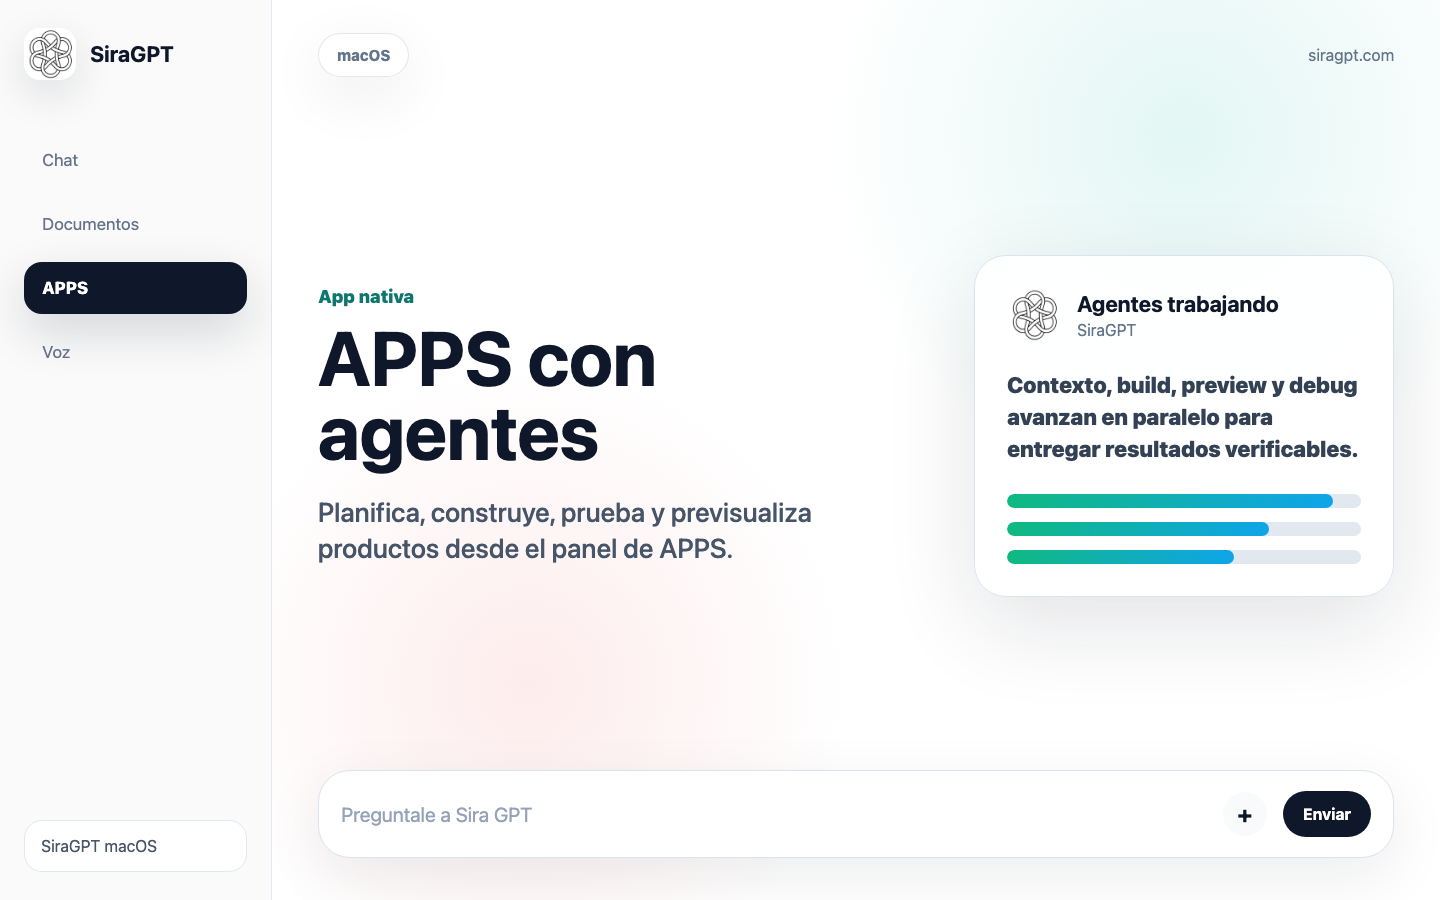
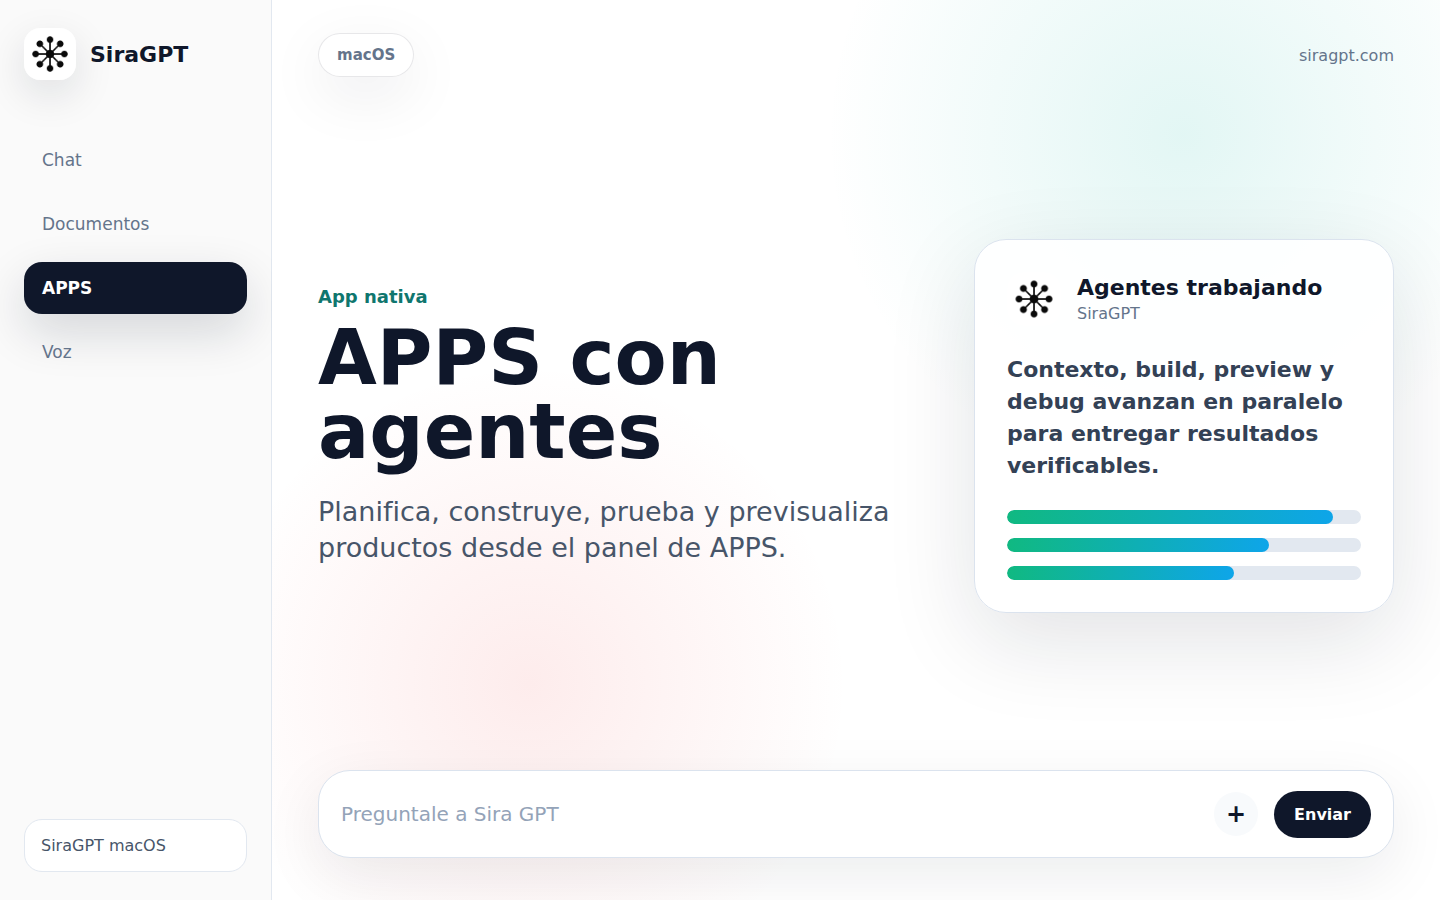
fix(brand): reduced-motion flag in ThinkingCore, stale atom/clover notes, store screenshots with the new mark
Follow-up to #1020 from the adversarial review (all low):
- ThinkingCore keeps a live reduced-motion flag: once the user switches
  reduction on, a tab or viewport change can no longer restart the loop,
  and switching it back off resumes the motion without a remount
  (two new cases in tests/components/thinking-core.test.tsx).
- claude-asterisk.tsx, globals.css and docs/thinking-loaders.md no longer
  describe the atom, the clover or orbiting dots as the brand or glyph.
- The brand asset test now samples pixels with sharp (ink in the middle,
  white or transparent corners) instead of trusting container headers.
- The 14 store-listing screenshots under docs/store-submission/assets are
  regenerated with the eight-arm mark (npm run native:store:assets:generate);
  the readiness report stays ready. CLAUDE.md / CHANGELOG updated; UI lock
  re-baselined for the touched UI files.

Claude-Session: https://claude.ai/code/session_01Cxgo4Xc1JMjLttiH5uegNd

diff --git a/tests/brand-clover-source.test.ts b/tests/brand-clover-source.test.ts
@@ -2,6 +2,7 @@ import assert from "node:assert/strict"
 import { describe, it } from "node:test"
 import fs from "node:fs"
 import path from "node:path"
+import sharp from "sharp"
 
 const root = process.cwd()
 const source = (rel: string) => fs.readFileSync(path.join(root, rel), "utf8")
@@ -99,6 +100,33 @@ describe("Clover brand (four-leaf clover mark + green accent)", () => {
     assert.deepEqual([favicon.readUInt16LE(2), favicon.readUInt16LE(4)], [1, 3], "favicon: 16/32/48")
     // The service worker precache list changed (atom.svg → sira-mark.svg), so its schema version moved on.
     assert.match(source("public/sw.js"), /const SCHEMA_VERSION = 'sira-v4'/)
+  })
+
+  // Headers prove the containers; this proves the mark is actually drawn where
+  // it belongs — ink in the middle, white or transparent at the corners.
+  it("draws the ink mark in the middle of every generated raster, with white or transparent corners", async () => {
+    const px = async (rel: string, x: number, y: number) => {
+      const { data, info } = await sharp(path.join(root, rel)).ensureAlpha().raw().toBuffer({ resolveWithObject: true })
+      const i = (y * info.width + x) * 4
+      return [data[i], data[i + 1], data[i + 2], data[i + 3]]
+    }
+    const INK = [10, 10, 10, 255]
+    const WHITE = [255, 255, 255, 255]
+    assert.deepEqual(await px("public/opengraph-image.png", 600, 253), INK, "social card: the mark's centre is ink")
+    assert.deepEqual(await px("public/opengraph-image.png", 10, 10), WHITE, "social card: white background")
+    assert.deepEqual(await px("public/apple-touch-icon.png", 0, 0), WHITE, "apple icon: opaque white corner (no black corners on iOS)")
+    assert.deepEqual(await px("public/apple-touch-icon.png", 90, 90), INK)
+    assert.equal((await px("public/sira-gpt-512.png", 0, 0))[3], 0, "PWA tile: transparent rounded corner")
+    assert.deepEqual(await px("public/sira-gpt-512.png", 256, 256), INK)
+    assert.deepEqual(await px("public/brand/sira-maskable-512.png", 0, 0), WHITE, "maskable: full-bleed white")
+    assert.equal((await px("android/app/src/main/res/mipmap-xxxhdpi/ic_launcher_foreground.png", 0, 0))[3], 0, "adaptive foreground: transparent outside the mark")
+    assert.deepEqual(await px("android/app/src/main/res/mipmap-xxxhdpi/ic_launcher_foreground.png", 216, 216), INK)
+    assert.deepEqual(await px("ios/App/App/Assets.xcassets/AppIcon.appiconset/AppIcon-512@2x.png", 0, 0), WHITE, "App Store icon: opaque white corner")
+    assert.deepEqual(await px("ios/App/App/Assets.xcassets/AppIcon.appiconset/AppIcon-512@2x.png", 512, 512), INK)
+    assert.deepEqual(await px("docs/store-submission/assets/android/play-icon-512.png", 0, 0), WHITE, "Play icon: opaque full-bleed")
+    assert.equal((await px("apps/desktop/assets/icon.png", 0, 0))[3], 0, "desktop icon: rounded tile with transparent corner")
+    assert.deepEqual(await px("apps/desktop/assets/icon.png", 256, 256), INK)
+    assert.deepEqual(await px("extension/icons/icon-128.png", 64, 64), INK)
   })
 
   it("keeps CloverMark for the document assets and uses the Sira mark for every in-app logo render", () => {

diff --git a/tests/components/thinking-core.test.tsx b/tests/components/thinking-core.test.tsx
@@ -117,6 +117,53 @@ describe("ThinkingCore — frame loop", () => {
     expect(moved.x2).toBeCloseTo(expected.arms[2].x, 1)
   })
 
+  it("honours a reduced-motion flip while mounted: a visibility change never restarts the loop, flipping it back resumes", () => {
+    const listeners: Array<(event: { matches: boolean }) => void> = []
+    vi.stubGlobal("matchMedia", vi.fn(() => ({
+      matches: false,
+      addEventListener: (_type: string, cb: (event: { matches: boolean }) => void) => listeners.push(cb),
+      removeEventListener: vi.fn(),
+    })))
+    const { container } = render(<ThinkingCore size={20} />)
+    const svg = container.querySelector("svg") as SVGSVGElement
+    expect(callbacks).toHaveLength(1)
+    fire(1_000)
+    fire(1_400)
+    expect(readArm(svg, 0).y2).toBeGreaterThan(40)
+    expect(listeners).toHaveLength(1)
+
+    // The user switches reduced motion on: the loop stops and the logo rests.
+    act(() => listeners[0]({ matches: true }))
+    expect(readArm(svg, 0)).toMatchObject({ x2: 200, y2: 40 })
+    callbacks.splice(0)
+    // Tab hidden → visible again must NOT restart the animation.
+    hidden = true
+    act(() => {
+      document.dispatchEvent(new Event("visibilitychange"))
+    })
+    hidden = false
+    act(() => {
+      document.dispatchEvent(new Event("visibilitychange"))
+    })
+    expect(callbacks).toHaveLength(0)
+    expect(readArm(svg, 0)).toMatchObject({ x2: 200, y2: 40 })
+
+    // Switching it back off resumes the motion without a remount.
+    act(() => listeners[0]({ matches: false }))
+    expect(callbacks).toHaveLength(1)
+    fire(9_000)
+    fire(9_400)
+    expect(readArm(svg, 0).y2).toBeGreaterThan(40)
+  })
+
+  it("renders the resting logo and never animates when reduced motion is already on", () => {
+    vi.stubGlobal("matchMedia", vi.fn(() => ({ matches: true, addEventListener: vi.fn(), removeEventListener: vi.fn() })))
+    const { container } = render(<ThinkingCore size={20} />)
+    const svg = container.querySelector("svg") as SVGSVGElement
+    expect(callbacks).toHaveLength(0)
+    expect(readArm(svg, 0)).toMatchObject({ x2: 200, y2: 40, display: "inline" })
+  })
+
   it("idle and unmount paint the resting logo", () => {
     const { container, rerender, unmount } = render(<ThinkingCore size={20} />)
     const svg = container.querySelector("svg") as SVGSVGElement

diff --git a/components/brand/thinking-core.tsx b/components/brand/thinking-core.tsx
@@ -85,10 +85,10 @@ export function ThinkingCore({ size = 20, active = true, tone = "default", color
       return undefined
     }
     const reduced = typeof window.matchMedia === "function" ? window.matchMedia("(prefers-reduced-motion: reduce)") : null
-    if (reduced?.matches) {
-      paint(svg, resting)
-      return undefined
-    }
+    // Follows the media query while mounted, so a visibility or viewport
+    // change never restarts the loop after the user switched reduction on
+    // (and switching it off resumes the motion without a remount).
+    let motionAllowed = !reduced?.matches
     let raf = 0
     let anchor: number | null = null
     // Cycle time of the last painted frame. It starts at the close time,
@@ -108,7 +108,7 @@ export function ThinkingCore({ size = 20, active = true, tone = "default", color
       raf = requestAnimationFrame(tick)
     }
     const start = () => {
-      if (disposed || raf || document.hidden || !inView) return
+      if (disposed || raf || !motionAllowed || document.hidden || !inView) return
       raf = requestAnimationFrame(tick)
     }
     const stop = () => {
@@ -119,7 +119,11 @@ export function ThinkingCore({ size = 20, active = true, tone = "default", color
     }
     const onVisibility = () => (document.hidden ? stop() : start())
     const onReduced = (event: MediaQueryListEvent) => {
-      if (!event.matches) return
+      motionAllowed = !event.matches
+      if (motionAllowed) {
+        start()
+        return
+      }
       stop()
       paint(svg, resting)
     }
@@ -133,7 +137,8 @@ export function ThinkingCore({ size = 20, active = true, tone = "default", color
       })
       : null
     observer?.observe(svg)
-    start()
+    if (motionAllowed) start()
+    else paint(svg, resting)
     return () => {
       disposed = true
       stop()

diff --git a/components/claude-asterisk.tsx b/components/claude-asterisk.tsx
@@ -6,9 +6,9 @@ import type { ThinkingCoreTone } from "@/components/brand/thinking-core"
 
 export type ClaudeAsteriskProps = {
   size?: number
-  /** Animated (thinking) or static (done / reduced motion handled in CSS). */
+  /** Animated (thinking) or static (done). Reduced motion renders the static mark. */
   active?: boolean
-  /** `error` paints the atom in the destructive red (the only colour on a thinking surface). */
+  /** `error` paints the mark in the destructive red (the only colour on a thinking surface). */
   tone?: ThinkingCoreTone
   color?: string
   className?: string
@@ -17,9 +17,10 @@ export type ClaudeAsteriskProps = {
 
 /**
  * The SiraGPT "thinking" glyph. Historically the eight-arm asterisk, then
- * the four-leaf clover (PR #887); since the ThinkingCore change it is the
- * neural core (`components/brand/thinking-core.tsx`) — the clover stays the
- * brand logo everywhere else (sidebar, auth, PWA).
+ * the four-leaf clover (PR #887), the atom (2026-10-02); since 2026-10-09 it
+ * is the official eight-arm Sira mark in motion
+ * (`components/brand/thinking-core.tsx`), the same mark `SiraMark` draws
+ * everywhere else (sidebar, auth, PWA).
  *
  * This is a thin wrapper that keeps the historical name, the
  * `data-claude-asterisk` attributes and the `.claude-asterisk` CSS classes,

diff --git a/tests/thinking-core-source.test.ts b/tests/thinking-core-source.test.ts
@@ -43,7 +43,12 @@ describe("ThinkingCore — the «Pensando» glyph", () => {
     assert.match(core, /raf = 0\n\s+\/\/ Re-anchor on the next frame so the clock does not count the pause\.\n\s+anchor = null/)
     assert.match(core, /raf = requestAnimationFrame\(tick\)/)
     assert.match(core, /window\.matchMedia\("\(prefers-reduced-motion: reduce\)"\)/)
-    assert.match(core, /if \(reduced\?\.matches\) \{\n\s+paint\(svg, resting\)/)
+    // Reduced motion is a live flag: the loop never (re)starts while it is on, and
+    // flipping it off resumes without a remount.
+    assert.match(core, /let motionAllowed = !reduced\?\.matches/)
+    assert.match(core, /if \(disposed \|\| raf \|\| !motionAllowed \|\| document\.hidden \|\| !inView\) return/)
+    assert.match(core, /motionAllowed = !event\.matches/)
+    assert.match(core, /if \(motionAllowed\) start\(\)\n\s+else paint\(svg, resting\)/)
     assert.match(core, /document\.addEventListener\("visibilitychange", onVisibility\)/)
     assert.match(core, /new IntersectionObserver\(/)
     // Closed arms are hidden with `display`, never `visibility`: a visible

diff --git a/app/globals.css b/app/globals.css
@@ -8733,7 +8733,7 @@ html[dir="rtl"] .right-3 { left: 0.75rem; right: auto; }
    `.thinking-core__tip`, `.thinking-core__core`), never attributes. */
 .claude-asterisk { transform-origin: 50% 50%; overflow: visible; }
 
-/* Live «Pensando…» label beats softly while the dots orbit. */
+/* Live «Pensando…» label beats softly while the arms open and close. */
 @keyframes thinking-live-label-pulse {
   0%, 100% { opacity: 0.75; }
   50% { opacity: 1; }
@@ -9609,7 +9609,7 @@ body:has(.admin-sidebar-drawer[data-state="open"]) [data-radix-dialog-overlay] {
   --success-green: 142 66% 48%;
 }
 
-/* Sidebar brand lockup: atom mark + «SiraGPT» wordmark (2026-10-01; atom since 2026-10-02). */
+/* Sidebar brand lockup: Sira mark + «SiraGPT» wordmark (2026-10-01; eight-arm mark since 2026-10-09). */
 .sidebar-brand__wordmark {
   font-weight: 600;
   letter-spacing: -0.02em;

diff --git a/tests/app-sidebar-chat-groups-source.test.ts b/tests/app-sidebar-chat-groups-source.test.ts
@@ -118,7 +118,7 @@ describe("app sidebar recent-chats toolbar source contract", () => {
   it("keeps Spanish collapse tooltips and the Claude-style header strip", () => {
     assert.match(source, /Contraer barra lateral ⌘B/)
     assert.match(source, /Expandir barra lateral ⌘B/)
-    // The header opens with the brand lockup (atom mark + «SiraGPT») and keeps the
+    // The header opens with the brand lockup (Sira mark + «SiraGPT») and keeps the
     // new-chat disc after the Empresas mode row is removed; the browser
     // history buttons left the strip on 2026-10-01 to make room for the wordmark.
     assert.doesNotMatch(source, /Modo de la barra lateral/)

diff --git a/tests/agents-sidebar-label-source.test.ts b/tests/agents-sidebar-label-source.test.ts
@@ -10,7 +10,7 @@ describe("agentes sidebar chrome", () => {
     const sidebar = source("components/app-sidebar.tsx")
     assert.doesNotMatch(sidebar, /Modo de la barra lateral/)
     assert.doesNotMatch(sidebar, /role="tablist"/)
-    // The header opens with the brand lockup (atom mark + «SiraGPT»); the browser
+    // The header opens with the brand lockup (Sira mark + «SiraGPT»); the browser
     // history buttons left the strip on 2026-10-01 to make room for the wordmark.
     assert.match(sidebar, /data-testid="sidebar-brand"/)
     assert.doesNotMatch(sidebar, /aria-label="Atrás"/)

diff --git a/CLAUDE.md b/CLAUDE.md
@@ -2579,9 +2579,13 @@ de tres órbitas (2026-10-02). UI lock re-baselineado para los archivos tocados.
   (`thinking-core__tip`) y el centro (`thinking-core__core`); un `requestAnimationFrame` mueve los
   atributos con `frameAt` (sin SMIL ni canvas: nítido a 12–48 px y `currentColor`). El render del
   servidor, `active={false}` y `prefers-reduced-motion` dibujan el frame abierto (el logo); se
-  pausa con la pestaña oculta o fuera de vista (`IntersectionObserver`). `tone="error"` pinta el
-  mark entero en `--destructive`. El bloque CSS `.claude-asterisk` de `globals.css` ya no tiene
-  reglas de electrones.
+  pausa con la pestaña oculta o fuera de vista (`IntersectionObserver`) y conserva la fase al
+  reanudar; el reloj arranca en el frame abierto (sin salto al estado cerrado); los brazos cerrados
+  se ocultan con `display` (nunca `visibility`, que atravesaría un ancestro oculto); el flag de
+  `prefers-reduced-motion` se sigue en vivo (un cambio de pestaña nunca reanuda el loop con la
+  reducción activa). `tone="error"` pinta el mark entero en `--destructive`. El bloque CSS
+  `.claude-asterisk` de `globals.css` ya no tiene reglas de electrones. Tests de comportamiento:
+  `tests/components/thinking-core.test.tsx` (frames controlados).
 - **Assets — `npm run brand:assets`** (`scripts/generate-brand-assets.cjs`, en el repo; transpila
   `sira-motion.ts` en memoria y renderiza con sharp; `--only=web|social|android|ios|desktop|extension`):
   `public/brand/sira-mark.svg` (precacheado por `sw.js`, `SCHEMA_VERSION` → `sira-v4`),
@@ -2600,8 +2604,11 @@ de tres órbitas (2026-10-02). UI lock re-baselineado para los archivos tocados.
   `docs/store-submission/assets/android/play-icon-512.png` (opaco a sangre, Play aplica su máscara;
   `native-store-assets.json` apunta ahí) y `extension/icons/icon-{16,48,128}.png`. Las tarjetas
   sociales rotulan «SiraGPT» en Liberation Sans vía fontconfig: el PNG commiteado es el artefacto
-  (CI nunca lo renderiza); regenerar con `fonts-liberation` instalada. Pendiente que requiere
-  Playwright: capturas de `docs/store-submission/assets` (`npm run native:store:assets:generate`).
+  (CI nunca lo renderiza); regenerar con `fonts-liberation` instalada. Las capturas de ficha de
+  tienda `docs/store-submission/assets/**` (14 PNG) se regeneraron con
+  `npm run native:store:assets:generate` (Playwright + Chromium; en un sandbox sin el build fijado,
+  un preload que fuerce `executablePath` al Chromium del sistema basta). Queda solo la copia
+  heredada `siraGPT/`, que no se compila ni se sirve.
 - Tests: `tests/lib/sira-motion.test.ts` (8, vitest), `brand-clover-source`,
   `thinking-core-source`, `sidebar-brand-header-source`, `claude-thinking-surface-source`,
   `claude-trace-rail-source`, `mobile-thinking-polish-source` actualizados; snapshot de

diff --git a/docs/thinking-loaders.md b/docs/thinking-loaders.md
@@ -76,7 +76,7 @@ Step identity prefers `step_id`.
   same glyph. The live Pensando glyph is the **ThinkingCore**
   (`components/brand/thinking-core.tsx` via `components/claude-asterisk.tsx`),
   drawn in the monochrome think accent: `--think-accent` is the foreground
-  (black on light, white on dark; the clover green stays the brand logo only).
+  (black on light, white on dark — the same ink as the `SiraMark` brand logo).
   Since 2026-10-09 the ThinkingCore is the **official SiraGPT mark in motion**
   (same geometry as the `SiraMark` logo, model in `lib/brand/sira-motion.ts`):
   eight arms open and close in a continuous two-second cycle in four staggered

diff --git a/CHANGELOG.md b/CHANGELOG.md
@@ -127,7 +127,8 @@ and improvement cycles follow a sequential number with the date the work landed.
   Capacitor Android launcher + splash PNGs, the iOS AppIcon + splash, the
   Electron desktop `icon.png/.icns/.ico` + Windows appx tiles and the browser
   extension icons — all of which still carried the clover, the knot or the
-  Capacitor default.
+  Capacitor default. The 14 store-listing screenshots under
+  `docs/store-submission/assets` were regenerated with the new mark too.
 
 - Automations the chat agent creates for the user, delivered back into the
   same chat when they fire (2026-10-09, native rewrite of the OpenClaw MIT
